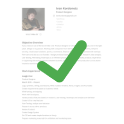
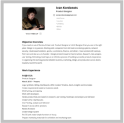
add CV templates

diff --git a/src/components/cvThumbnail.vue b/src/components/cvThumbnail.vue
@@ -6,10 +6,11 @@ const props = withDefaults(
   defineProps<{
     imageUrl: string;
     forbiden?: boolean;
+    selected?: boolean;
   }>(),
   {
     forbiden: true,
-
+    selected: false,
   }
 )
 
@@ -21,6 +22,13 @@ const getImageUrl = () => {
 
 <template>
     <div class="cvThumbnailContainer">
+        <div v-if="props.selected" class="cvThumbnailSelectedContainer">
+            <svg class="checkmarkIcon" width="51" height="44" viewBox="0 0 51 44" fill="none" xmlns="http://www.w3.org/2000/svg">
+                <path d="M47.872 1.92923C47.3114 1.537 46.6791 1.25905 46.0111 1.11126C45.3431 0.963467 44.6525 0.948729 43.9788 1.06789C43.3051 1.18704 42.6614 1.43776 42.0846 1.80572C41.5078 2.17368 41.0092 2.65167 40.6172 3.21238L20.8118 31.4971L7.82596 22.6267C6.78444 21.9142 5.50258 21.6447 4.26235 21.8774C3.02212 22.1101 1.92513 22.826 1.2127 23.8675C0.50027 24.909 0.230757 26.1909 0.463452 27.4311C0.696148 28.6713 1.41199 29.7683 2.4535 30.4807L19.8603 42.3703C20.3965 42.7362 21.0023 42.9876 21.64 43.1087C22.2778 43.2298 22.9336 43.218 23.5665 43.074C24.2416 42.956 24.8868 42.7059 25.4651 42.338C26.0433 41.9702 26.5433 41.4918 26.9363 40.9304L49.1559 9.18802C49.9478 8.05456 50.2574 6.65307 50.0165 5.29153C49.7755 3.92998 49.0039 2.71978 47.8712 1.92685" fill="#4EAB4F"/>
+            </svg>
+            <div class="cvThumbnailSelected"></div>
+        </div>
+
         <img class="cvThumbnail" :src=getImageUrl()>
         <p class="cvThumbnailTitle">Template {{ props.imageUrl }}</p>
     </div>
@@ -33,6 +41,7 @@ const getImageUrl = () => {
     display: flex;
     flex-flow: column;
     align-items: center;
+    cursor: pointer;
 }
 .cvThumbnail {
   width: 124px;
@@ -40,6 +49,10 @@ const getImageUrl = () => {
   box-sizing: border-box;
   border: 2px solid $ultraLightGrey;
   margin: 10px;
+
+  &:hover{
+    border: 3px  solid $primary;
+  }
 }
 
 .cvThumbnailTitle {
@@ -47,5 +60,21 @@ const getImageUrl = () => {
     font-size: 14px;
     color: $grey;
     margin-top: 2px;
+}
+.cvThumbnailSelectedContainer {
+    position: absolute;
+    margin-top: 10px;
+}
+.cvThumbnailSelected {
+    width: 118px;
+    height: 118px;
+    background: rgba(255, 255, 255, 0.7);
+    border: 3px solid $ultraLightGrey;
+}
+
+.checkmarkIcon {
+    position: absolute;
+    top: 37px;
+    right: 33px;
 }
 </style>

diff --git a/src/pages/DashBoard.vue b/src/pages/DashBoard.vue
@@ -22,7 +22,14 @@ const isShowToaster = ref(false);
 const toasterType = ref();
 const toasterMessage = ref();
 
-const cvImages = ['1', '2', '3', '4', '5', '6', '7', '8', '9', '10', '11', '12', '13']
+const cvImages = ref({'1':true, '2':false, '3':false, '4':false, '5':false, '6':false, '7':false, '8':false, '9':false, '10':false, '11':false, '12':false, '13':false});
+const selectedCv = ref(1);
+
+const handleClickThumbnail = ( index ) => {
+  cvImages.value[selectedCv.value] =  false;
+  selectedCv.value = index;
+  cvImages.value[selectedCv.value] = true;
+}
 
 console.log("dashboard", mainCV , userInfo);
 </script>
@@ -41,7 +48,13 @@ console.log("dashboard", mainCV , userInfo);
   <div class="dashboard">
     <div class="allTemplatesContainer">
       <div class="cvThumbnailsContainer">
-        <cvThumbnail v-for="image in cvImages" :imageUrl="image"/>
+        <cvThumbnail 
+          v-for="(image, index) in cvImages" 
+          :selected="cvImages[index]"
+          :imageUrl="index"
+          :index="index"
+          @click="handleClickThumbnail(index)"
+        />
       </div>
     </div>
 
